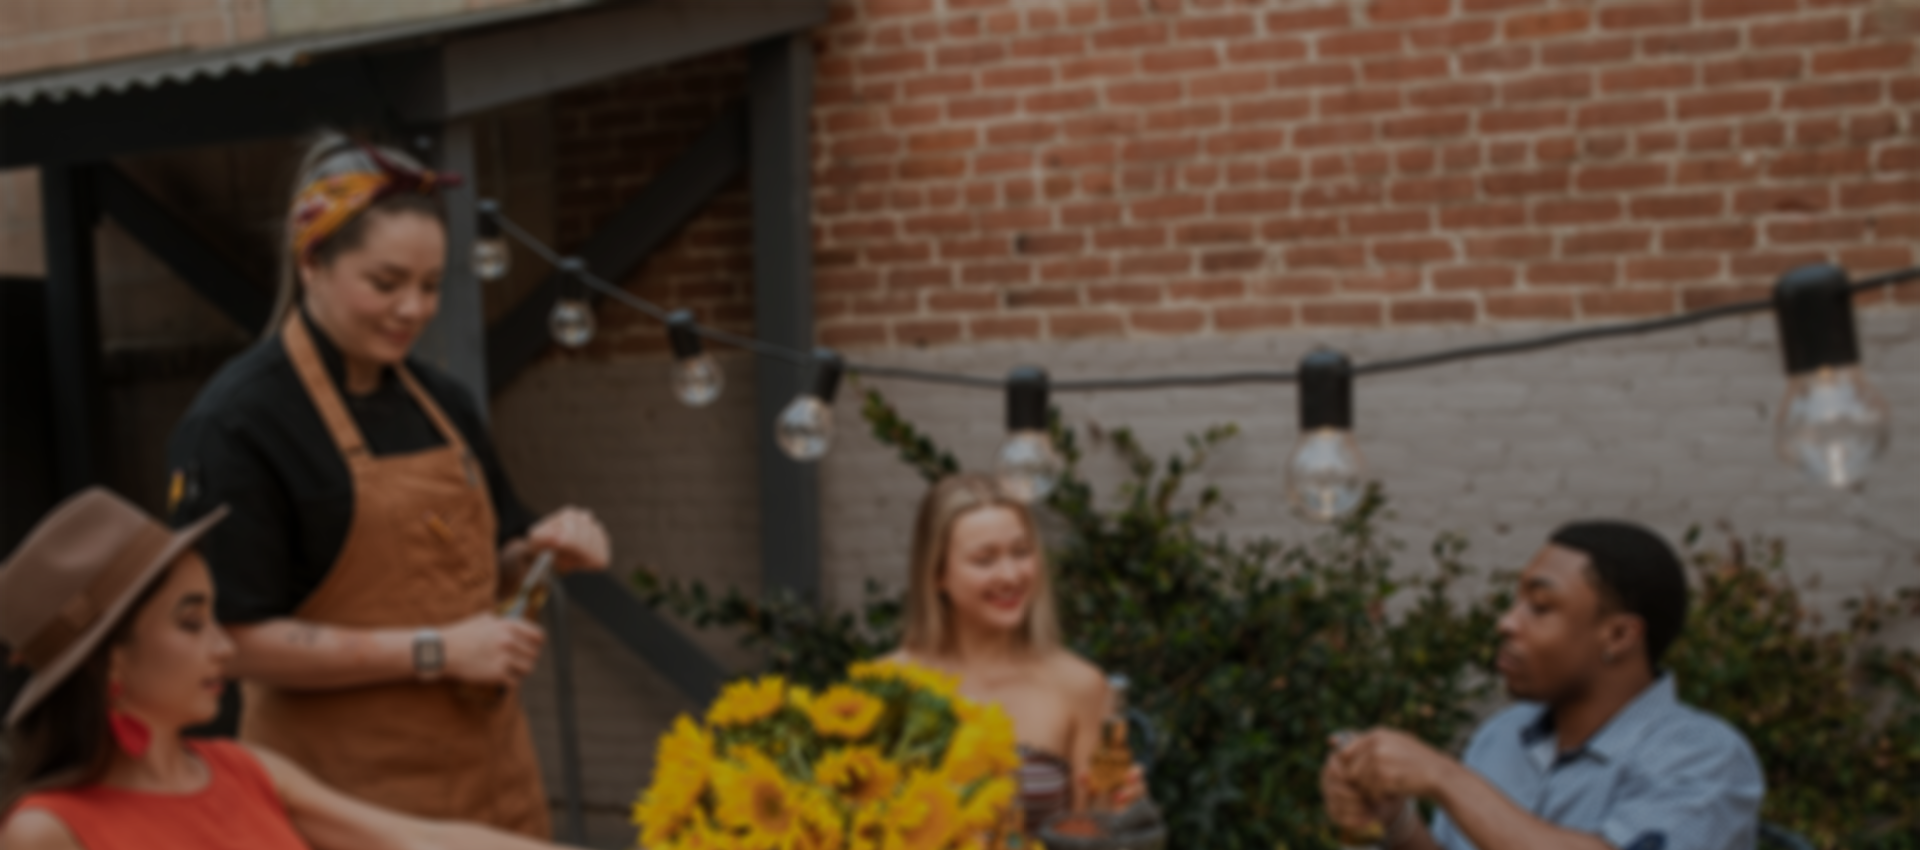
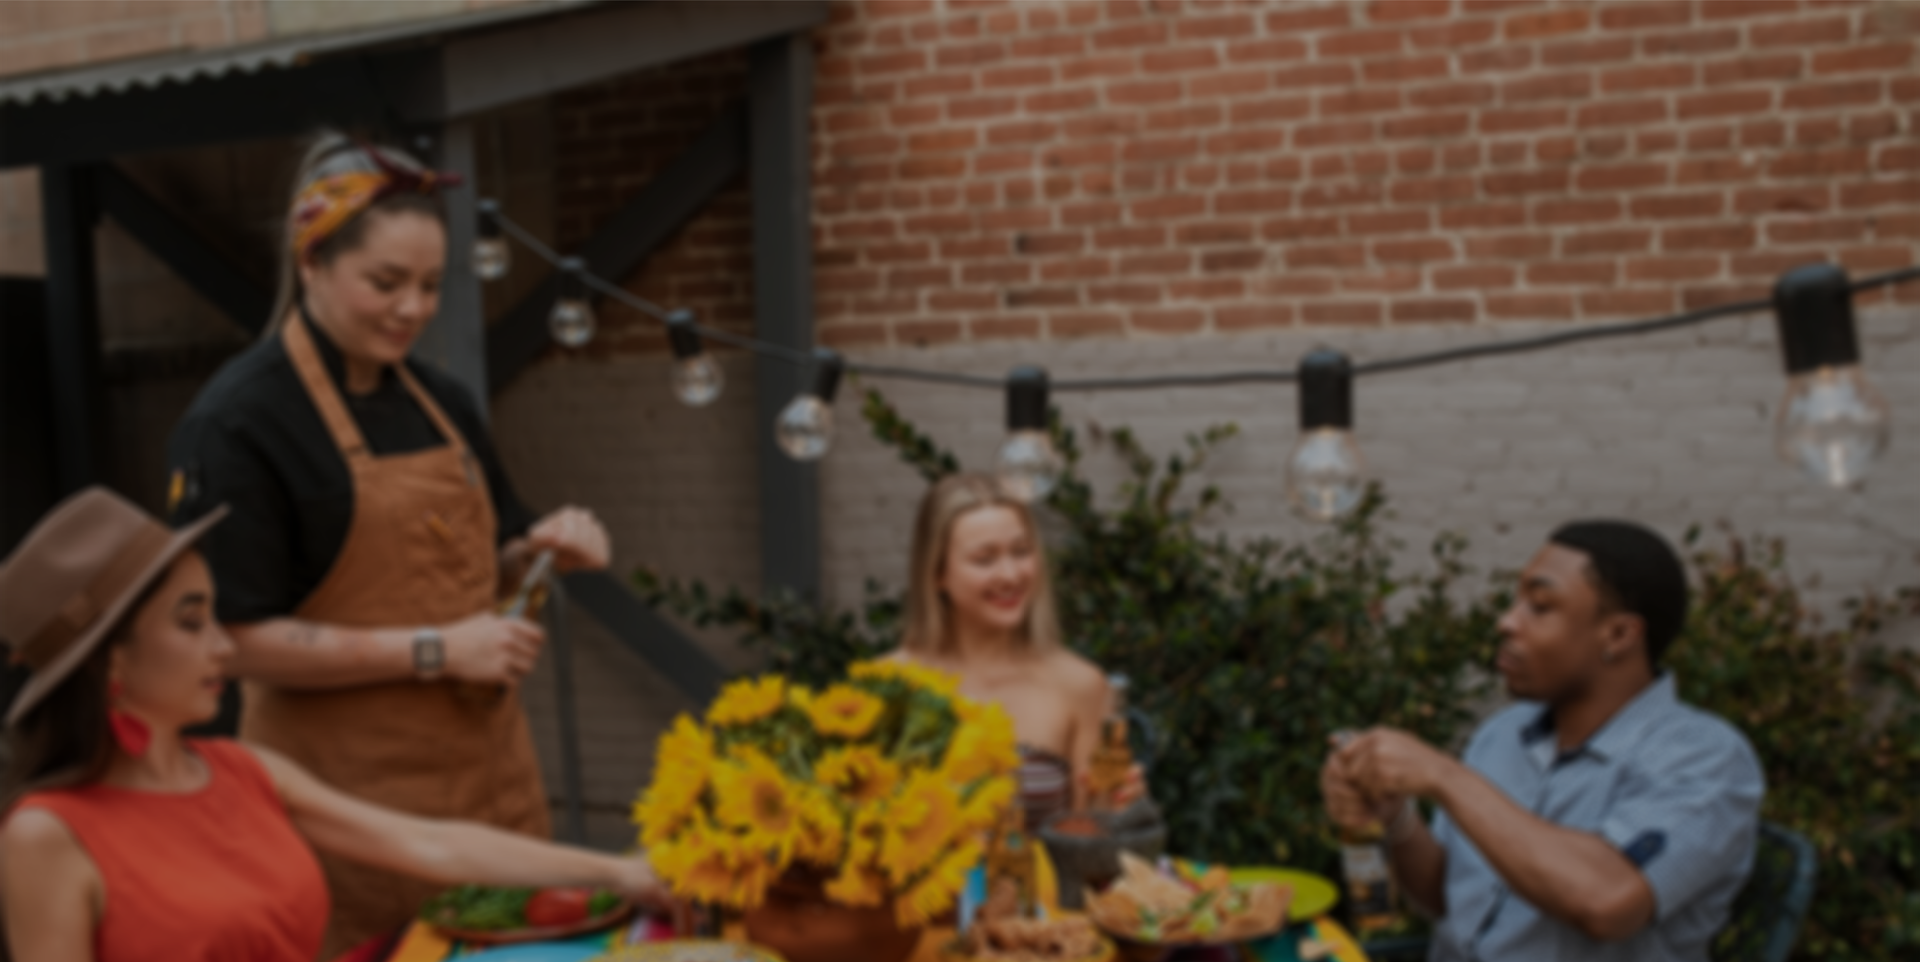
added empty logged views and made design changes (structural)

diff --git a/angularapp/src/app/shared/pages/register-employee/register-employee.component.html b/angularapp/src/app/shared/pages/register-employee/register-employee.component.html
@@ -1,17 +1,17 @@
-<div class="outer">
+<div class="outer max-width max-length">
     <app-navbar></app-navbar>
     <div class="container">
-        <div class="row d-flex justify-content-center">
-            <div class="col-lg-5 col-md-7">
+        <div class="row">
+            <div class="col-lg-6 col-md-7">
                 <div class="panel border bg-white mt-5">
                     <div class="panel-heading">
-                        <div class="h3 pt-3 mt-2 font-weight-bold">Създаване на акаунт за работник</div>
+                        <div class="h3 pt-3 mt-5 roboto-with-shadow">Създаване на акаунт за работник</div>
                     </div>
                     <div class="panel-body p-3">
                         <form [formGroup]="registerForm" (ngSubmit)="registerEmployee()" autocomplete="off">
                             <div class="form-group pt-3">
-                                <div class="input-field my-2">
-                                    <span class="fa fa-user p-2 my2"></span>
+                                <div class="input-field my-3">
+                                    <span class="fa fa-user p-2"></span>
                                     <input formControlName="firstName" type="text" placeholder="Име"
                                         [class.is-invalid]="submitted && registerForm.get('firstName')?.errors">
                                 </div>
@@ -23,7 +23,7 @@
                                     *ngIf="submitted && registerForm.get('firstName')?.hasError('minlength') || registerForm.get('firstName')?.hasError('maxlength')">
                                     Името трябва да е между 2 и 30 символа!
                                 </span>
-                                <div class="input-field my-2">
+                                <div class="input-field my-3">
                                     <span class="fa fa-user p-2"></span>
                                     <input formControlName="lastName" type="text" placeholder="Фамилия"
                                         [class.is-invalid]="submitted && registerForm.get('lastName')?.errors">
@@ -36,7 +36,7 @@
                                     *ngIf="submitted && registerForm.get('lastName')?.hasError('minlength') || registerForm.get('lastName')?.hasError('maxlength')">
                                     Фамилията трябва да е между 2 и 30 символа!
                                 </span>
-                                <div class="input-field my-2">
+                                <div class="input-field my-3">
                                     <span class="fa fa-map-pin p-2"></span>
                                     <input formControlName="city" type="text" placeholder="Град"
                                         [class.is-invalid]="submitted && registerForm.get('city')?.errors">
@@ -45,7 +45,7 @@
                                     *ngIf="submitted && registerForm.get('city')?.hasError('required')">
                                     Полето е задължително!
                                 </span>
-                                <div class="input-field my-2">
+                                <div class="input-field my-3">
                                     <span class="fa fa-calendar p-2"></span>
                                     <div class="text-muted me-3">Дата на раждане:</div>
                                     <input class="custom-date-input" formControlName="birthDate" type="date"
@@ -55,7 +55,7 @@
                                     *ngIf="submitted && registerForm.get('birthDate')?.hasError('required')">
                                     Полето е задължително!
                                 </span>
-                                <div class="input-field my-2">
+                                <div class="input-field my-3">
                                     <span class="fa fa-envelope p-2"></span>
                                     <input formControlName="email" type="text" placeholder="Имейл"
                                         [class.is-invalid]="submitted && registerForm.get('email')?.errors">
@@ -68,7 +68,7 @@
                                     *ngIf="submitted && registerForm.get('email')?.hasError('pattern')">
                                     Невалиден имейл адрес!
                                 </span>
-                                <div class="input-field my-2">
+                                <div class="input-field my-3">
                                     <span class="fa fa-lock p-2"></span>
                                     <input formControlName="password" [type]="type" placeholder="Парола"
                                         [class.is-invalid]="submitted && registerForm.get('password')?.errors">

diff --git a/angularapp/src/app/shared/pages/index/index.component.html b/angularapp/src/app/shared/pages/index/index.component.html
@@ -1,11 +1,17 @@
-<app-navbar></app-navbar>
-<div class="mt-2">
-    <img src="../../../../assets/images/index-page-img.png" style="max-height: 100vh;" height="864" width="1920" alt="index_page_img">
-    <div class="container">
-        <a routerLink="/account/login" class="btn btn-outline-light overlay-btn-login">Влез</a>
-        <a routerLink="/account/register-employee" class="btn btn-outline-light overlay-btn-signup" >Създай акаунт</a>
-        <a class="overlay-text border-top border-bottom">Оптимизирано приложение <br> за техническо изпълнение, <br> мениджмънт и анализ <br> на ресторанти <br></a>
+<div class="custom-background max-width min-height">
+    <app-navbar></app-navbar>
+    <div class="d-flex justify-content-center row max-width">
+        <div class="overlay-text border-top border-bottom col-3 p-4 mb-4">Оптимизирано приложение <br> за техническо
+            изпълнение, <br>
+            мениджмънт и анализ <br> на ресторанти <br></div>
     </div>
-    
-    
-</div>
+    <div class="d-flex justify-content-center row max-width">
+        <div (click)="login()" class="col-2 btn btn-outline-light pacifico-with-shadow m-5">
+            <span class="fa fa-sign-in p-1"></span>
+         Влезте
+        </div>
+        <div (click)="register()" class="col-2 btn btn-outline-light pacifico-with-shadow m-5">
+            <span class="fa fa-user-plus p-1"></span>
+            Нов акаунт
+        </div>
+    </div>

diff --git a/angularapp/src/app/shared/pages/account-routing/account-routing.module.ts b/angularapp/src/app/shared/pages/account-routing/account-routing.module.ts
@@ -6,6 +6,8 @@ import { RegisterEmployeeComponent } from '../register-employee/register-employe
 import { ConfirmEmailComponent } from '../confirm-email/confirm-email.component';
 import { SendEmailComponent } from '../send-email/send-email.component';
 import { ResetPasswordComponent } from '../reset-password/reset-password.component';
+import { EmployeeLoggedViewComponent } from '../employee-logged-view/employee-logged-view/employee-logged-view.component';
+import { ManagerLoggedViewComponent } from '../manager-logged-view/manager-logged-view/manager-logged-view.component';
 
 
 const routes: Routes = [
@@ -14,7 +16,9 @@ const routes: Routes = [
   {path: 'register-employee', component: RegisterEmployeeComponent},
   {path: 'confirm-email', component: ConfirmEmailComponent},
   {path: 'send-email/:mode', component: SendEmailComponent},
-  {path: 'reset-password', component: ResetPasswordComponent}
+  {path: 'reset-password', component: ResetPasswordComponent},
+  {path: 'employee-logged-view', component: EmployeeLoggedViewComponent},
+  {path: 'manager-logged-view', component: ManagerLoggedViewComponent}
 ];
 
 @NgModule({

diff --git a/angularapp/src/app/shared/pages/index/index.component.css b/angularapp/src/app/shared/pages/index/index.component.css
@@ -6,12 +6,8 @@
     font-size: 27px !important;
     text-shadow: 2px 2px black;
     text-decoration: none;
-    position: absolute;
-    top: 40%; 
-    left: 50%; 
-    transform: translate(-50%, -50%); 
+    margin-top: 150px !important;
     color: white;
-    padding: 10px 20px; 
     text-align: center;
 }
 .btn-outline-light{
@@ -23,25 +19,6 @@
     background-color: rgb(145, 75, 25);
     color:white;
 }
-.overlay-btn-login {
-    font-family: Pacifico;
-    font-size: 30px !important;
-    text-shadow: 2px 2px black;
-    position: absolute;
-    top: 57%; 
-    left: 42%; 
-    transform: translate(-50%, -50%); 
-    padding: 5px 15px; 
-    text-align: center;
-}
-.overlay-btn-signup {
-    font-family: Pacifico;
-    font-size: 30px !important;
-    text-shadow: 2px 2px black;
-    position: absolute;
-    top: 57%; 
-    left: 55%; 
-    transform: translate(-50%, -50%); 
-    padding: 5px 15px; 
-    text-align: center;
+.custom-background{
+    background-image: url('../../../../assets/images/index-page-img.png') !important;
 }

diff --git a/angularapp/src/app/shared/pages/register-employee/register-employee.component.css b/angularapp/src/app/shared/pages/register-employee/register-employee.component.css
@@ -1,6 +1,6 @@
 .outer{
     height: 100vh;
-    background: linear-gradient(to top, chocolate 10%, white 90%) no-repeat;
+    background-image: url('../../../../assets/images/employee-signup-img.png');
 }
 
 .custom-date-input{
@@ -36,10 +36,9 @@ a:hover{
 }
 
 .panel{
-    min-height: 380px;
+    min-height: 80vh;
     box-shadow: 20px, 20px, 80px rgb(218,218,218);
     border-radius: 12px;
-    margin-top:100px;
 }
 .custom-signup-button:hover{
     background-color: rgb(138, 69, 20);
@@ -53,14 +52,11 @@ a:hover{
     border: 1px solid #ddd;
     color: chocolate;
 }
+
 .custom-signup-button{
     background-color: chocolate;
     color: white;
     border: transparent;
-}
-.input-field.error{
-    border: 1px solid red;
-    color:crimson;
 }
 
 input[type='text'],
@@ -76,11 +72,6 @@ input[type='password']{
     outline: none;
     box-shadow: none;
 }
-
-img{
-    width: 40px;
-    height: 40px;
-    object-fit: cover;
-    border-radius: 50%;
-    position: relative;
+.h3{
+    color: chocolate;
 }

diff --git a/angularapp/src/app/shared/shared.module.ts b/angularapp/src/app/shared/shared.module.ts
@@ -9,6 +9,8 @@ import { ModalModule } from 'ngx-bootstrap/modal';
 import { ConfirmEmailComponent } from './pages/confirm-email/confirm-email.component';
 import { SendEmailComponent } from './pages/send-email/send-email.component';
 import { ResetPasswordComponent } from './pages/reset-password/reset-password.component';
+import { ManagerLoggedViewComponent } from './pages/manager-logged-view/manager-logged-view/manager-logged-view.component';
+import { EmployeeLoggedViewComponent } from './pages/employee-logged-view/employee-logged-view/employee-logged-view.component';
 
 @NgModule({
   declarations: [
@@ -17,7 +19,9 @@ import { ResetPasswordComponent } from './pages/reset-password/reset-password.co
     NotificationComponent,
     ConfirmEmailComponent,
     SendEmailComponent,
-    ResetPasswordComponent
+    ResetPasswordComponent,
+    ManagerLoggedViewComponent,
+    EmployeeLoggedViewComponent
   ],
   imports: [
     CommonModule,

diff --git a/angularapp/src/app/shared/pages/register-employee/register-employee.component.ts b/angularapp/src/app/shared/pages/register-employee/register-employee.component.ts
@@ -7,7 +7,8 @@ import { Router } from '@angular/router';
 @Component({
   selector: 'app-register-employee',
   templateUrl: './register-employee.component.html',
-  styleUrls: ['./register-employee.component.css']
+  styleUrls: ['./register-employee.component.css',
+  '../../../app.component.css']
 })
 export class RegisterEmployeeComponent implements OnInit{
   registerForm: FormGroup = new FormGroup({});
@@ -39,7 +40,7 @@ export class RegisterEmployeeComponent implements OnInit{
     this.accountService.registerEmployee(this.registerForm.value).subscribe({
       next: (response: any) => {
         this.sharedService.showNotification(true, response.value.title, response.value.message);
-        this.router.navigateByUrl('/account/next');
+        this.router.navigateByUrl('/account/employee-logged-view');
       },
       error: error => {
         if(error.error.errors){

diff --git a/angularapp/src/app/shared/pages/confirm-email/confirm-email.component.html b/angularapp/src/app/shared/pages/confirm-email/confirm-email.component.html
@@ -1,10 +1,10 @@
 <div class="container text-center" *ngIf="success">
-    <a routerLink="/account/next" class="btn btn-primary"> <!-- routes to the next page, currently non existant -->
+    <a routerLink="/account/employee-logged-view" class="btn btn-primary"> <!-- same as the login thing, redirect user to proper -->
         Continue
     </a>
 </div>
 <div class="container text-center" *ngIf="!success">
-    <a class="btn btn-link" (click)="resendEmailConfirmaitonLink()"> <!-- routes to the next page, currently non existant -->
+    <a class="btn btn-link" (click)="resendEmailConfirmaitonLink()"> 
         Resend email confirmation link
     </a>
 </div>

diff --git a/angularapp/src/app/shared/pages/login/login.component.ts b/angularapp/src/app/shared/pages/login/login.component.ts
@@ -46,7 +46,8 @@ export class LoginComponent implements OnInit {
       this.accountService.login(this.loginForm.value).subscribe({
         next: (response: any) => {
           // console.log(response);
-          this.router.navigateByUrl('/account/next'); // When next page is done, redirect user to it
+          console.log('in the login comp');
+          this.router.navigateByUrl('/account/employee-logged-view'); // Which will be the next page, needing more data from backend
         },
         error: error => {
           if (error.error.errors) {

diff --git a/angularapp/src/app/shared/pages/index/index.component.ts b/angularapp/src/app/shared/pages/index/index.component.ts
@@ -1,10 +1,20 @@
 import { Component } from '@angular/core';
+import { Router } from '@angular/router';
 
 @Component({
   selector: 'app-index',
   templateUrl: './index.component.html',
-  styleUrls: ['./index.component.css']
+  styleUrls: ['./index.component.css',
+              '../../../app.component.css']
 })
 export class IndexComponent {
- 
+  constructor(private router: Router){
+
+  }
+  login(){
+    this.router.navigateByUrl('/account/login');
+  }
+  register(){
+    this.router.navigateByUrl('/account/register-employee');
+  }
 }

diff --git a/angularapp/src/app/shared/pages/register-manager/register-manager.component.ts b/angularapp/src/app/shared/pages/register-manager/register-manager.component.ts
@@ -38,7 +38,7 @@ export class RegisterManagerComponent implements OnInit {
       this.accountService.registerManager(this.registerForm.value).subscribe({
         next: (response: any) => {
           this.sharedService.showNotification(true, response.value.title, response.value.message);
-          this.router.navigateByUrl('/account/next'); // When next page is done, redirect user to it
+          this.router.navigateByUrl('/account/manager-logged-view');
         },
         error: error => {
           if (error.error.errors) {

diff --git a/angularapp/src/app/app.component.css b/angularapp/src/app/app.component.css
@@ -1,0 +1,24 @@
+.max-width{
+    max-width: 100vw !important;
+}
+.min-height{
+    min-height: 100vh !important;
+}
+.max-height{
+    max-height: 100vh !important;
+}
+.min-width{
+    min-width: 100vw !important;
+}
+.pacifico-with-shadow{
+    font-family: Pacifico;
+    font-size: 30px !important;
+    text-shadow: 2px 2px black;
+    text-align: center;
+}
+.roboto-with-shadow{
+    font-family: Roboto Slab;
+    font-size: 30px !important;
+    text-shadow: 1px 1px black;
+    text-align: center;
+}
